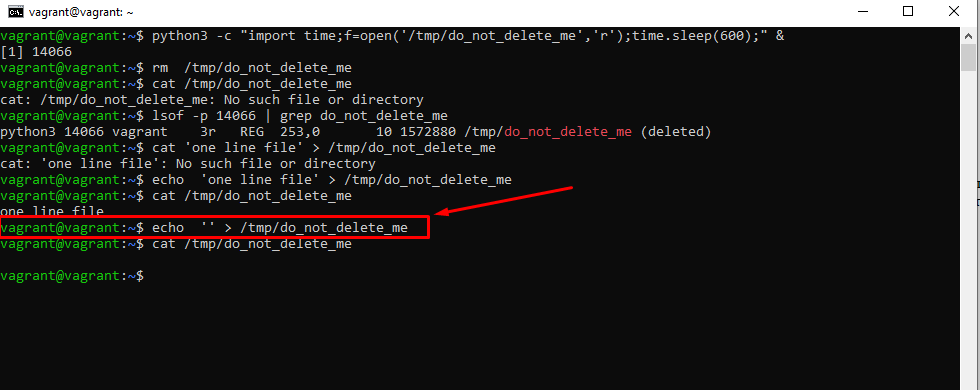
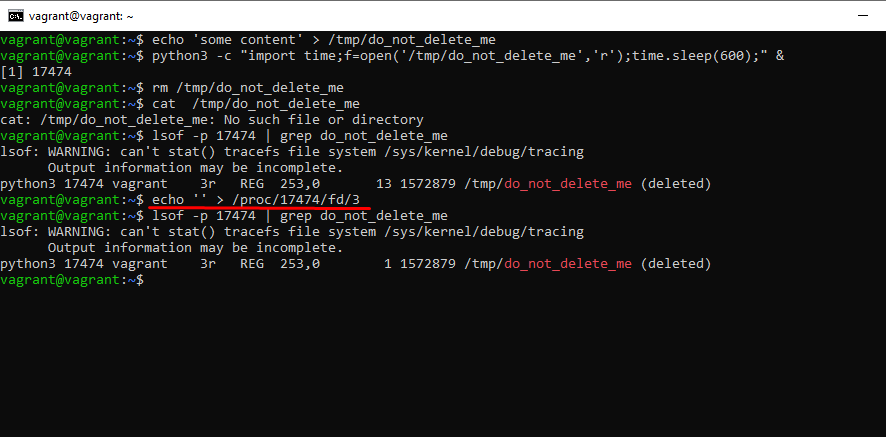
Исправлены ошибки в пунктах 3 и 7

Changed region(s): [[0.0, 0.0, 0.8837, 0.7385], [0.9142, 0.0, 1.0, 1.0], [0.8533, 0.0, 0.8837, 0.0308]]

diff --git a/OperatingSystems/lecture1/README.md b/OperatingSystems/lecture1/README.md
@@ -23,18 +23,21 @@ vagrant@netology1:~$ file /dev/tty
    
    ![3.png](3.png)
 
-4. Занимают ли зомби-процессы какие-то ресурсы в ОС (CPU, RAM, IO)?
+   Ответ: где 1126 - PID процесса
+   4 - дескриптор файла, который предварительно удалили. 
+
+5. Занимают ли зомби-процессы какие-то ресурсы в ОС (CPU, RAM, IO)?
 
     Ответ: Зомби не занимают памяти (как процессы-сироты), но блокируют записи в таблице процессов, размер которой ограничен для каждого пользователя и системы в целом.
 
-5. В iovisor BCC есть утилита opensnoop:
+6. В iovisor BCC есть утилита opensnoop:
   
    > root@vagrant:~# dpkg -L bpfcc-tools | grep sbin/opensnoop
    > /usr/sbin/opensnoop-bpfcc
    
    ![4.png](4.png)
 
-6. Какой системный вызов использует uname -a?
+7. Какой системный вызов использует uname -a?
   
    ![5.png](5.png)
 
@@ -42,7 +45,7 @@ vagrant@netology1:~$ file /dev/tty
    
    Ответ:  Part of the utsname information is also accessible  via  /proc/sys/kernel/{ostype, hostname, osrelease, version, domainname}.
 
-7. Чем отличается последовательность команд через ; и через && в bash? Например:
+8. Чем отличается последовательность команд через ; и через && в bash? Например:
 
    >root@netology1:~# test -d /tmp/some_dir; echo Hi
    >Hi
@@ -54,10 +57,10 @@ vagrant@netology1:~$ file /dev/tty
    ;  - разделитель последовательных команд
 
    test -d /tmp/some_dir && echo Hi - в данном случае echo отработает только при успешном завершении команды test
-   set -e - прерывает сессию при любом ненулевом значении исполняемых команд в конвейере кроме последней.
-   в случае &&  вместе с set -e- вероятно не имеет смысла, так как при ошибке, выполнение команд прекратиться. 
+   set -e - С параметром -e оболочка завершится только при ненулевом коде возврата простой команды. Если ошибочно завершится одна из команд, разделённых &&, то выхода из шелла не произойдёт. Так что, смысл есть.
+   В man это поведение описано: The shell does not exit if the command that fails is . . . part of any command executed in a && or || list except the command following the final && 
 
-8. Из каких опций состоит режим bash set -euxo pipefail и почему его хорошо было бы использовать в сценариях? 
+9. Из каких опций состоит режим bash set -euxo pipefail и почему его хорошо было бы использовать в сценариях? 
 
    Ответ: -e прерывает выполнение исполнения при ошибке любой команды кроме последней в последовательности 
     -x вывод трейса простых команд 
@@ -67,9 +70,9 @@ vagrant@netology1:~$ file /dev/tty
     По сути, для сценария, повышает детализацию вывода ошибок(логирования), 
     и завершит сценарий при наличии ошибок, на любом этапе выполнения сценария, кроме последней завершающей команды
     
-9. Используя -o stat для ps, определите, какой наиболее часто встречающийся статус у процессов в системе. В man ps ознакомьтесь (/PROCESS STATE CODES) что значат дополнительные к основной заглавной буквы статуса процессов. Его можно не учитывать при расчете (считать S, Ss или Ssl равнозначными).
+10. Используя -o stat для ps, определите, какой наиболее часто встречающийся статус у процессов в системе. В man ps ознакомьтесь (/PROCESS STATE CODES) что значат дополнительные к основной заглавной буквы статуса процессов. Его можно не учитывать при расчете (считать S, Ss или Ssl равнозначными).
 
-   Ответ: S 
-   На втором месте идут процессы R+
+    Ответ: S 
+    На втором месте идут процессы R+
     
    
